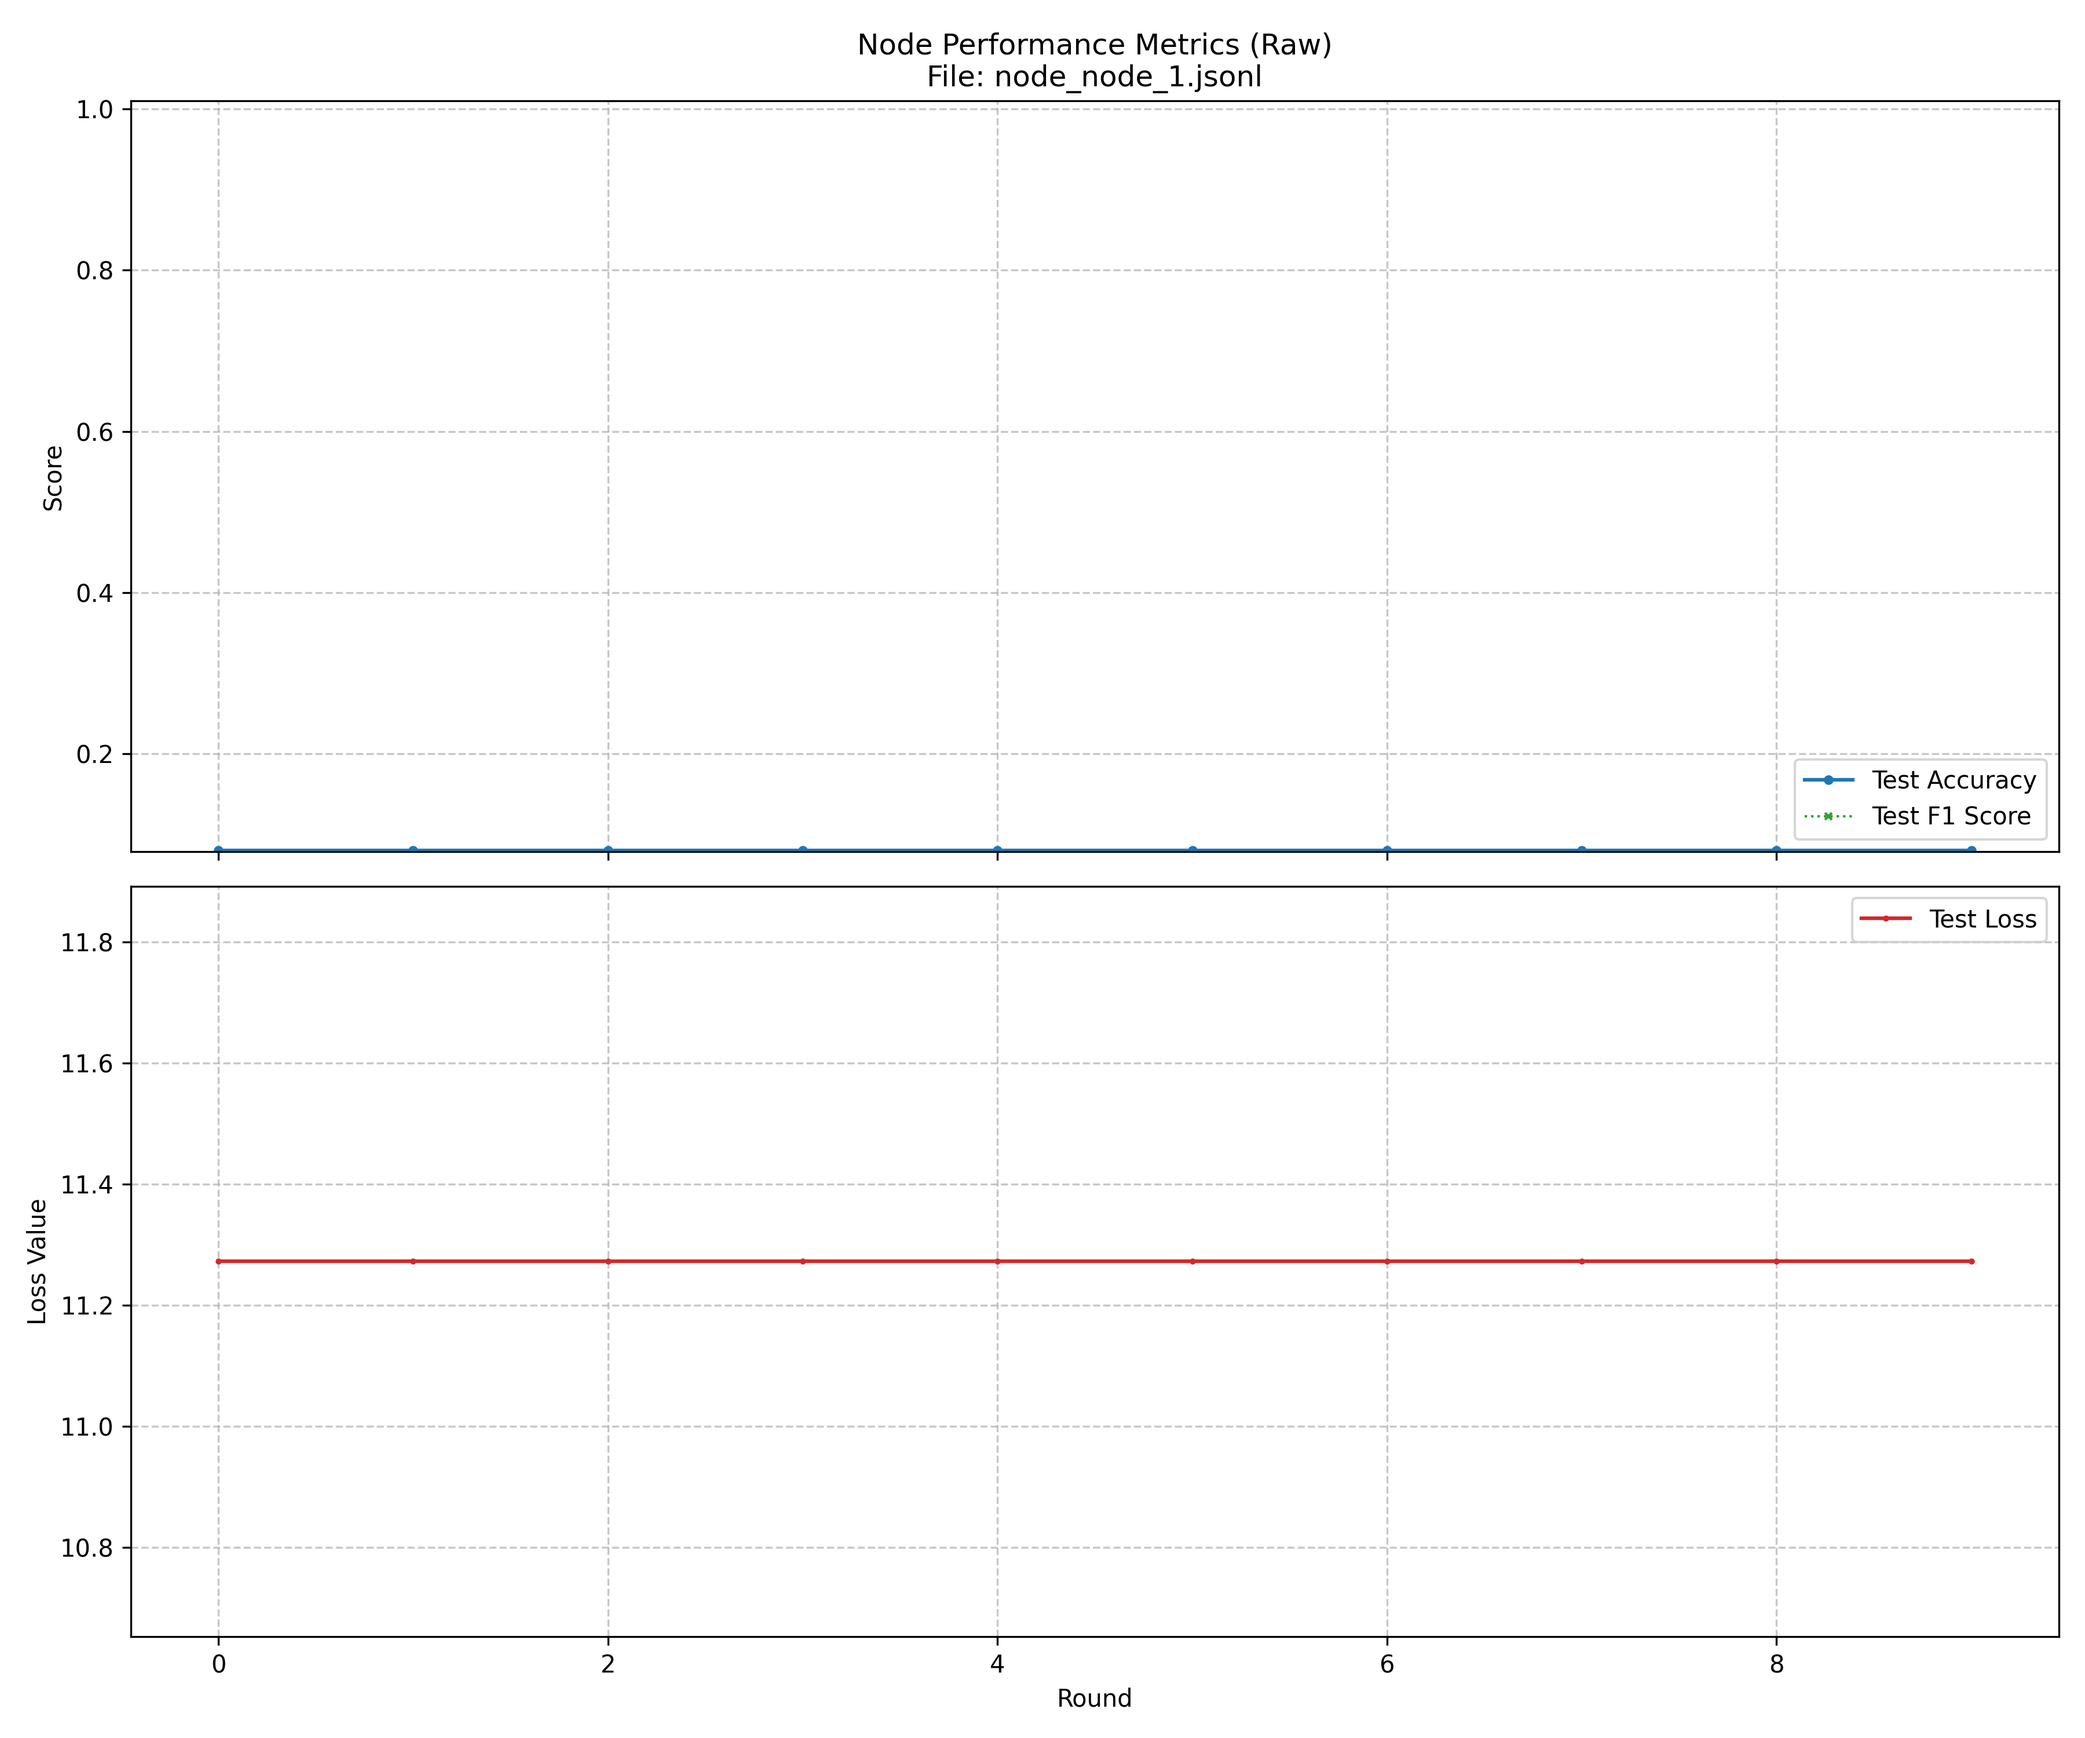
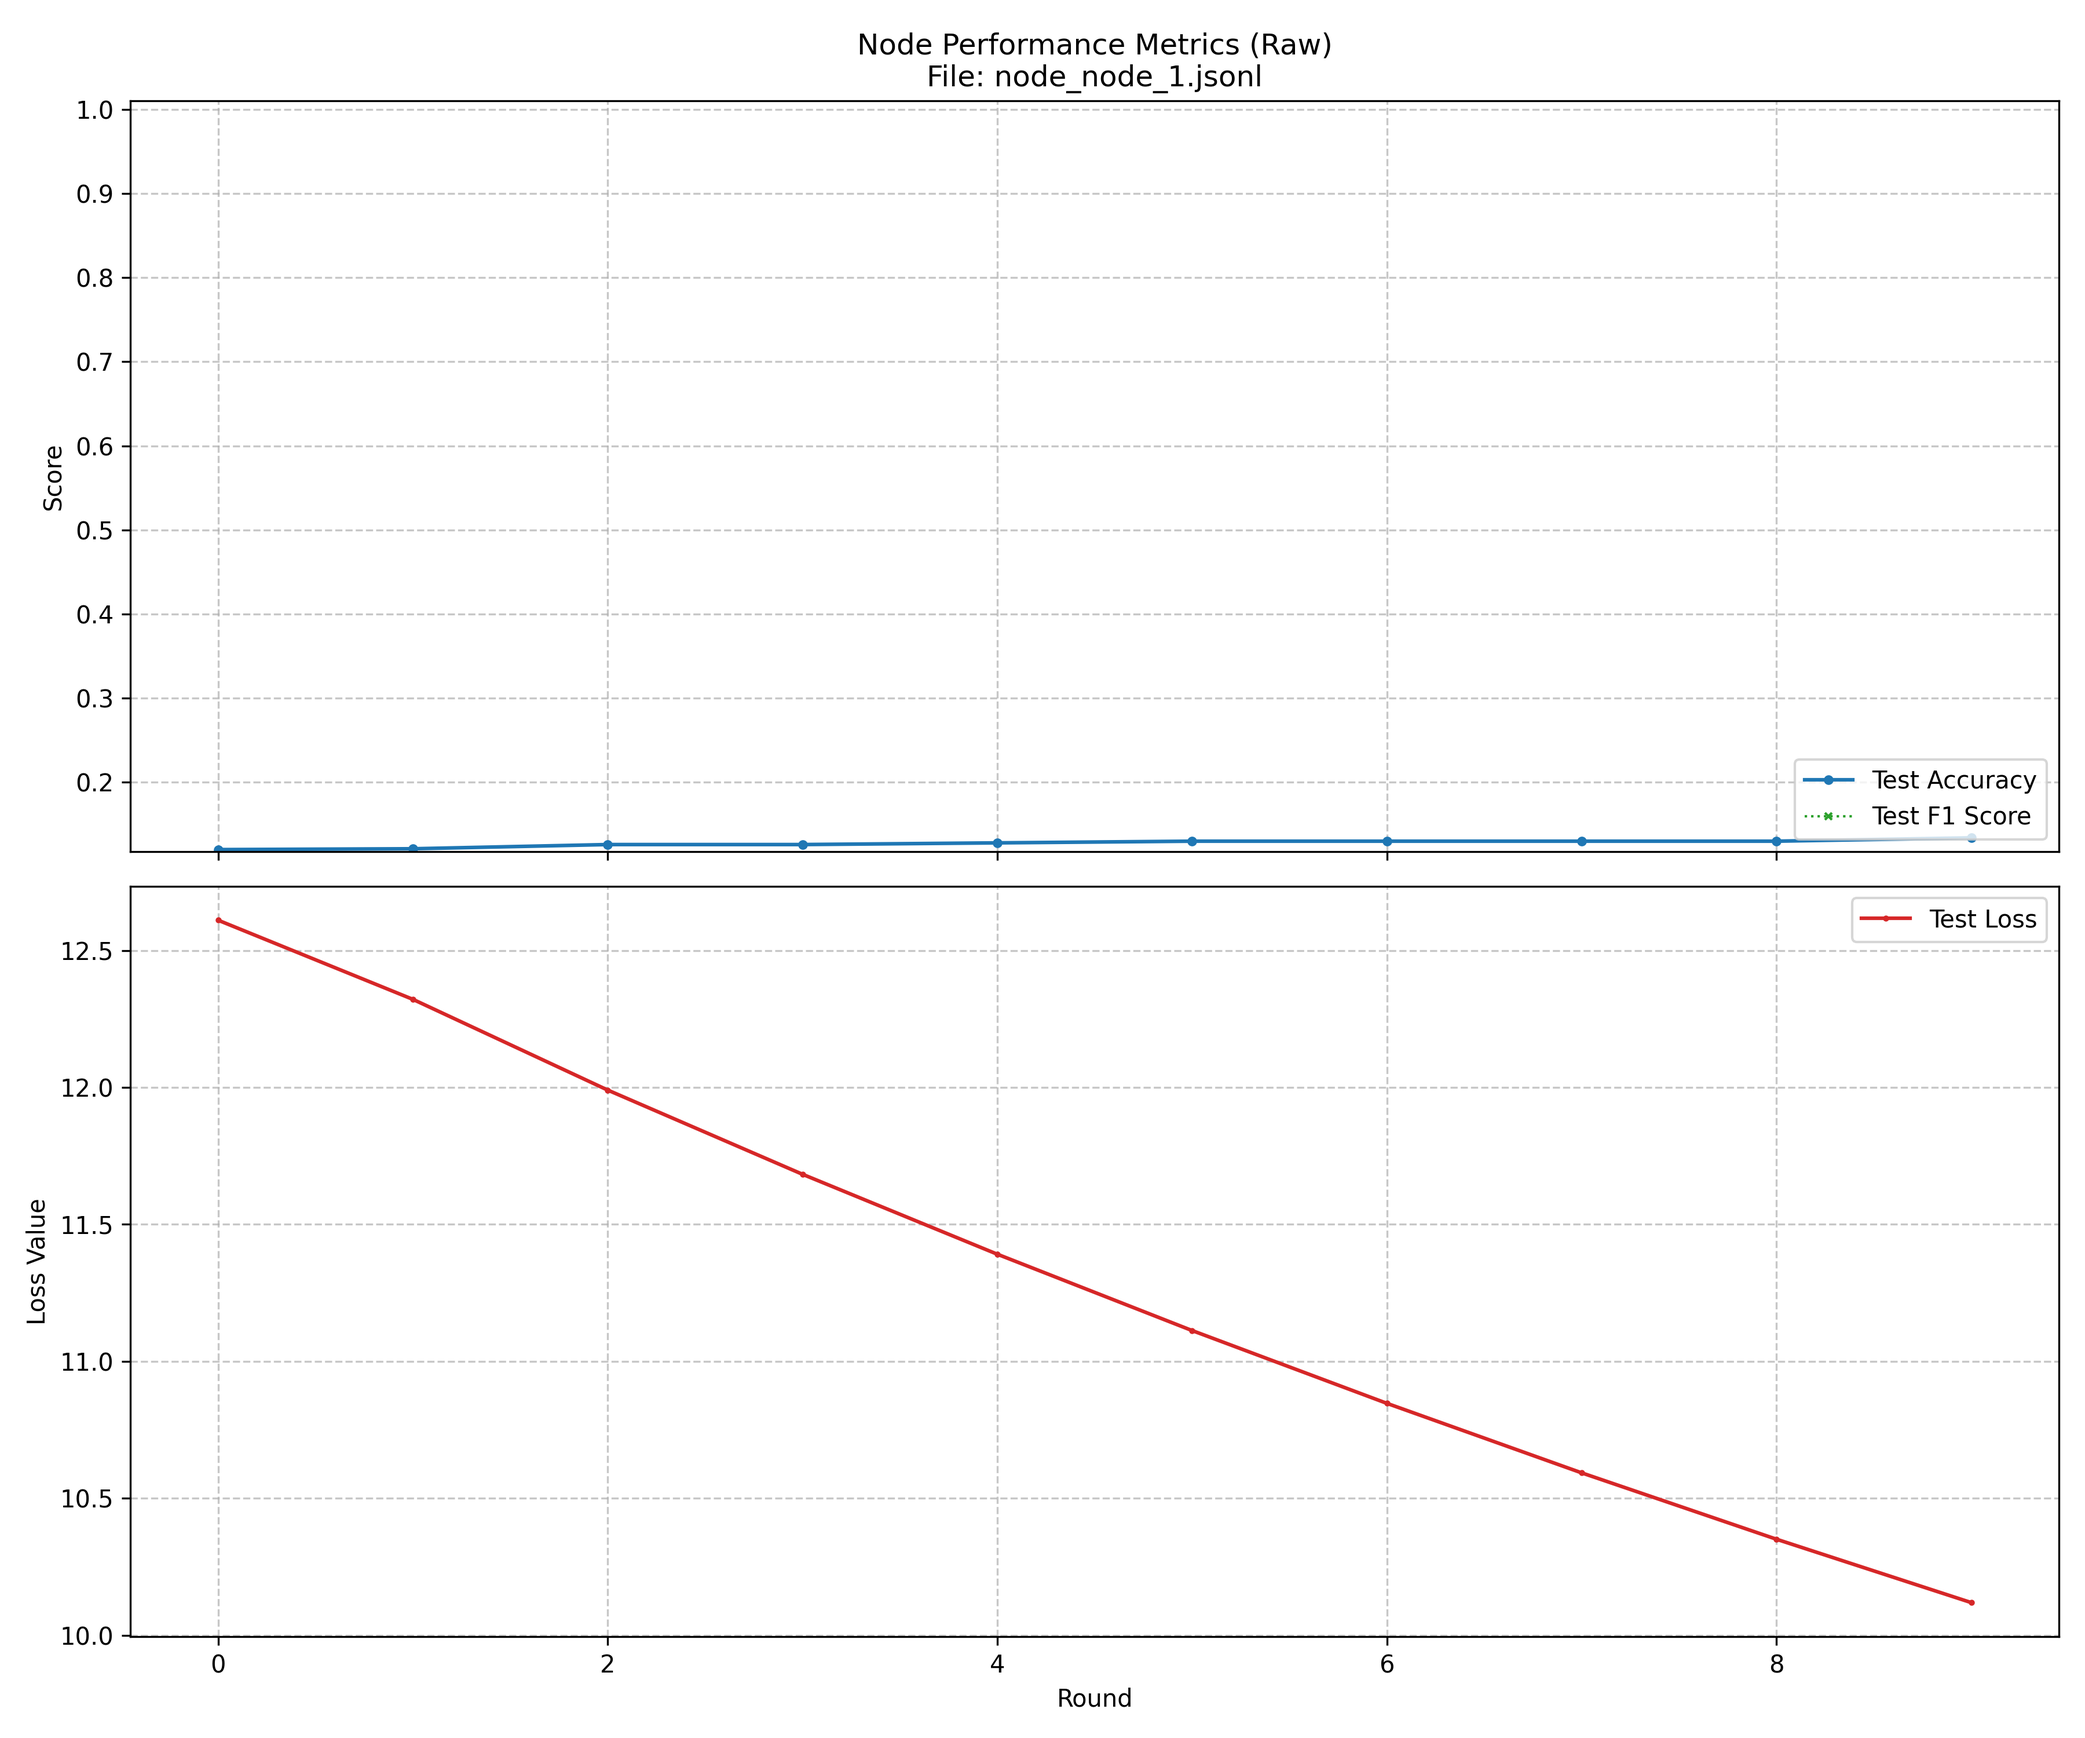
Fix DSGT

diff --git a/p2pfl/learning/aggregators/dsgt.py b/p2pfl/learning/aggregators/dsgt.py
@@ -18,9 +18,9 @@ class DSGTAggregator(Aggregator):
     over Time-Varying directed networks (DSGTm-TV).
     Ref: https://arxiv.org/html/2409.17189v1
     """
-    requires_gradient_only: bool = False # Allow local training to produce non-zero delta
-    # We need 'delta' to extract the gradient and 'degrees' for push-pull weights
-    REQUIRED_INFO_KEYS = ["delta", "degrees"]
+    # DSGT manages its own model updates, so fit() should only compute gradients.
+    requires_gradient_only: bool = True 
+    REQUIRED_INFO_KEYS = ["delta"]
 
     def __init__(self, alpha: float = 0.01, beta: float = 0.0, **kwargs):
         """
@@ -48,34 +48,34 @@ class DSGTAggregator(Aggregator):
         tracker (dsgt_y_msg) for Push-Pull communication.
         """
         # 1. Extract Current Gradient (g_k) from the callback's delta
-        # delta = weights_start - weights_end ≈ alpha * g_k  =>  g_k ≈ delta / alpha
+        # delta = lr * g  =>  g = delta / lr. 
+        # For consistency, we assume the learner's LR matches the aggregator's alpha.
         info = self._get_and_validate_model_info(model)
         self_delta = [np.array(d) for d in info["delta"]]
         g_k = [d / self.alpha for d in self_delta]
+        
+        # Current local model (x_k)
+        x_k = model.get_parameters()
         
         # 2. Initialization (Round 0)
         if not self.is_initialized:
             self.y_tracker = [g.copy() for g in g_k]
             self.prev_g = [g.copy() for g in g_k]
-            
-            # Recover x_k^i (before local update) for momentum term in next round
-            x_updated = model.get_parameters()
-            x_k_i = [p + d for p, d in zip(x_updated, self_delta)]
-            self.prev_x = [p.copy() for p in x_k_i]
+            self.prev_x = [p.copy() for p in x_k]
             
             self.is_initialized = True
             logger.info(self.addr, f"DSGTm-TV initialized. Alpha: {self.alpha}, Beta: {self.beta}")
         else:
             # 3. Tracker Update: y_{k} = consensus_y + g_k - g_{k-1}
+            # consensus_y was computed in the PREVIOUS round's aggregate() step.
             if self.consensus_y is not None:
                 for i in range(len(self.y_tracker)):
                     self.y_tracker[i] = self.consensus_y[i] + (g_k[i] - self.prev_g[i])
-            self.prev_g = [g.copy() for g in g_k]
+            # prev_g and prev_x will be updated at the end of aggregate()
 
         # 4. Prepare Pushed Message (Column-stochastic weighting)
-        # out_degree_plus_1 is the number of neighbors we are pushing to + ourselves
+        # We use the train_set (self + neighbors) as the stochastic group.
         out_degree_plus_1 = len(self.train_set) if self.train_set else 1
-        
         dsgt_y_msg = [y / out_degree_plus_1 for y in self.y_tracker]
         
         # Attach the weighted tracker to the model's additional info
@@ -90,28 +90,23 @@ class DSGTAggregator(Aggregator):
         if not models:
             raise NoModelsToAggregateError(f"({self.addr}) No models to aggregate")
 
-        # --- 1. Identify Self Model and Extract Parameters ---
+        # --- 1. Identify Self Model ---
         model_map = {m.get_contributors()[0]: m for m in models}
         self_model = model_map.get(self.addr)
         if self_model is None:
             raise NoModelsToAggregateError("Self model not found in DSGT aggregation.")
 
-        # x_updated is the model AFTER local training (x_k - alpha*g_k)
-        x_updated = self_model.get_parameters()
+        # x_k is the model parameters at the start of the round
+        x_k = self_model.get_parameters()
         
         # --- 2. Calculate Consensus for X (Row-stochastic A_k) ---
+        # Uniform average over the neighborhood
         num_models = len(models)
-        consensus_x = [np.zeros_like(p) for p in x_updated]
+        consensus_x = [np.zeros_like(p) for p in x_k]
         for m in models:
-            # Recover x_k^j by adding back the delta to the updated model
-            # x_k = x_updated + delta
-            m_info = self._get_and_validate_model_info(m)
-            m_delta = [np.array(d) for d in m_info["delta"]]
-            m_params_updated = m.get_parameters()
-            
-            for i, (p_upd, d) in enumerate(zip(m_params_updated, m_delta)):
-                x_k_j = p_upd + d
-                consensus_x[i] += x_k_j / num_models
+            m_params = m.get_parameters()
+            for i, p in enumerate(m_params):
+                consensus_x[i] += p / num_models
 
         # --- 3. Calculate Consensus for Y (Column-stochastic B_k) ---
         self.consensus_y = [np.zeros_like(p) for p in self.y_tracker]
@@ -120,21 +115,27 @@ class DSGTAggregator(Aggregator):
             if y_msg_j is not None:
                 for i, p_y in enumerate(y_msg_j):
                     self.consensus_y[i] += p_y
+            else:
+                # Fallback for self model if preprocess was called separately
+                if m.get_contributors()[0] == self.addr:
+                    n_p = len(self.train_set) if self.train_set else 1
+                    for i, y in enumerate(self.y_tracker):
+                        self.consensus_y[i] += y / n_p
 
         # --- 4. Model Update (x_{k+1}) with Momentum ---
-        # Current local model before update (x_k^i)
-        self_info = self._get_and_validate_model_info(self_model)
-        self_delta = [np.array(d) for d in self_info["delta"]]
-        x_k_i = [p + d for p, d in zip(x_updated, self_delta)]
-
         # x_{k+1} = consensus_x - alpha * y_tracker + beta * (x_k - x_{prev})
         new_x_params = []
-        for i in range(len(x_k_i)):
-            update = consensus_x[i] - self.alpha * self.y_tracker[i] + self.beta * (x_k_i[i] - self.prev_x[i])
+        for i in range(len(x_k)):
+            update = consensus_x[i] - self.alpha * self.y_tracker[i] + self.beta * (x_k[i] - self.prev_x[i])
             new_x_params.append(update)
 
         # --- 5. State Update for Next Round ---
-        self.prev_x = [p.copy() for p in x_k_i]
+        # Extract gradient again for prev_g
+        info = self._get_and_validate_model_info(self_model)
+        g_k = [np.array(d) / self.alpha for d in info["delta"]]
+        
+        self.prev_x = [p.copy() for p in x_k]
+        self.prev_g = [g.copy() for g in g_k]
 
         # Return the resulting model for the next round (x_{k+1})
         return self_model.build_copy(params=new_x_params)

diff --git a/p2pfl/stages/base_node/train_stage.py b/p2pfl/stages/base_node/train_stage.py
@@ -83,15 +83,16 @@ class TrainStage(Stage):
                 n_s = learner.get_data().get_num_samples()
                 current_model.set_contribution([state.addr], n_s) 
             
-            # Use force_add_local_model instead of add_model for the local node
-            logger.info(state.addr, "🛠 Calling force_add_local_model...")
-
-            aggregator.force_add_local_model(current_model)
-
             import time
             time.sleep(5) # wait for continuous voting
 
             pre_model = aggregator.preprocess_local_model(current_model)
+            
+            # Use force_add_local_model instead of add_model for the local node
+            # Added AFTER preprocess to include metadata
+            logger.info(state.addr, "🛠 Calling force_add_local_model...")
+            aggregator.force_add_local_model(pre_model)
+
             TrainStage.__send_model_direct(state, communication_protocol, pre_model)
             check_early_stop(state)
             

diff --git a/plot_node_metrics.py b/plot_node_metrics.py
@@ -65,7 +65,7 @@ if __name__ == "__main__":
     # This node has the best convergence (Loss 0.59 -> 0.08)
     target_file = os.path.join(
         "experiments", 
-        "p2pfl_MNIST_RandomIIDPartitionStrategy_DSGTAggregator_model_build_fn_20260513_052641", 
+        "p2pfl_MNIST_RandomIIDPartitionStrategy_DSGTAggregator_model_build_fn_20260514_042252", 
         "node_node_1.jsonl"
     )
     plot_jsonl_metrics(target_file)
